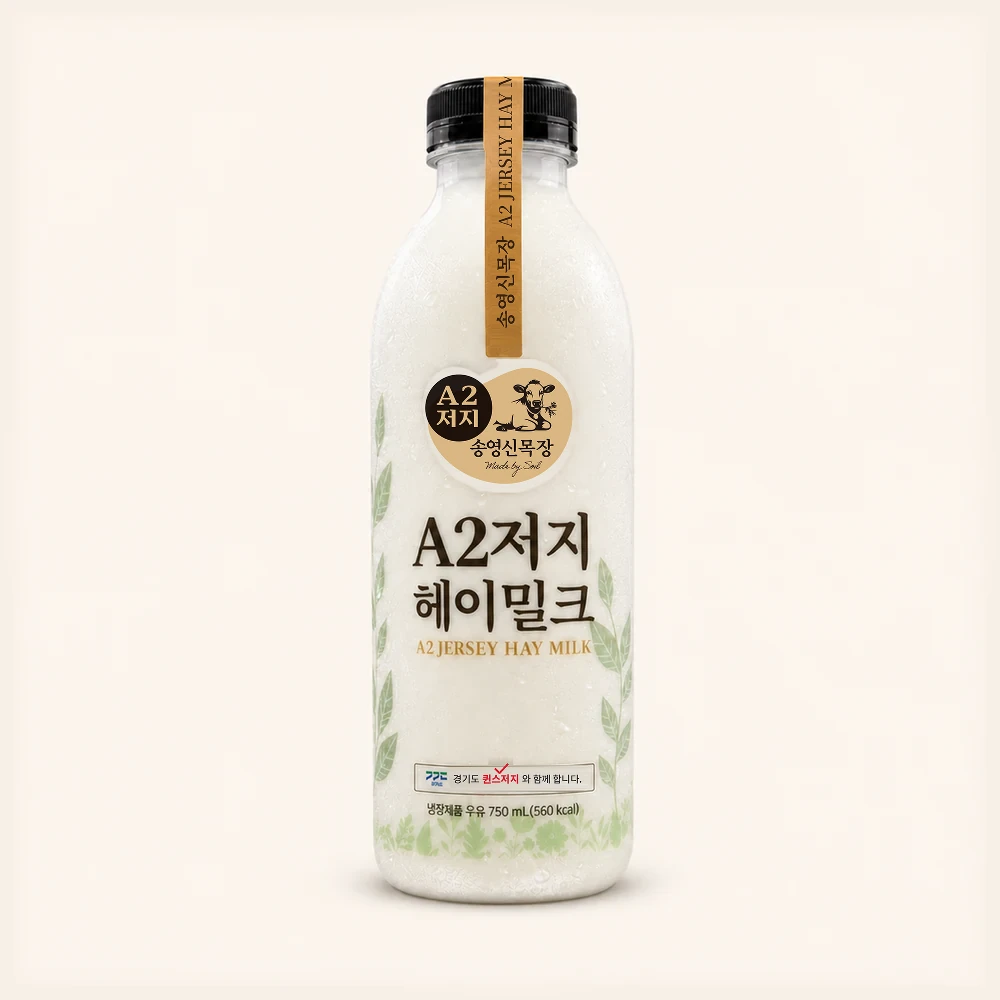
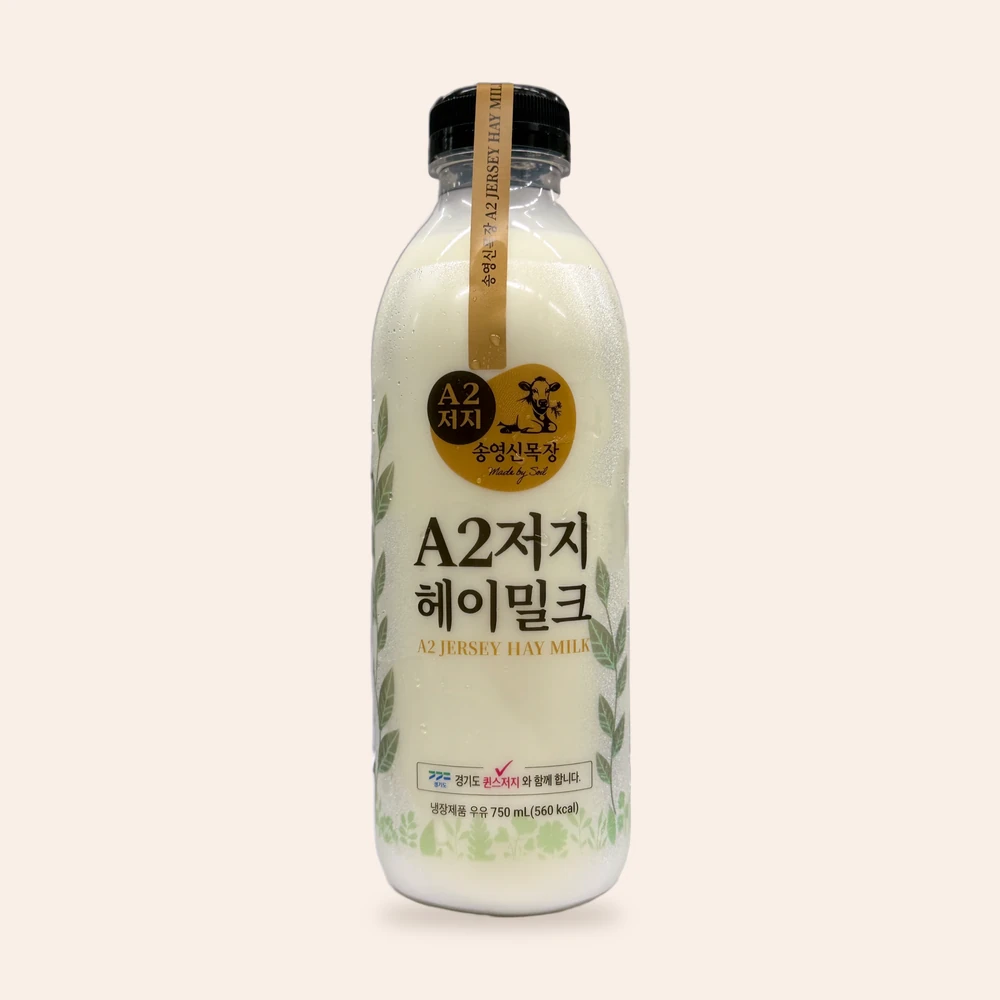
feat(제품 사진): 제품별 병 사진을 실물 사진으로 교체 (#242)
* feat(제품 사진): 병 사진을 전부 실물 사진으로 교체

회장님이 보내 주신 실제 병 사진 넷으로 AI 렌더(글자만 교정한 임시본)를 바꾼다.
라벨이 실물 그대로다 — 송영신목장 · Made by Soil · 경기도 퀸스저지 와 함께 합니다 ·
135/130/360/560 kcal(lib/products.ts 와 일치).

  · 상세 사진 4(*-bottle.webp) · 진열 카드 누끼 4(cut/) · 공유 카드용 PNG 4
  · 홈 단체 사진(hero-row-white.webp): 실물 누끼 다섯을 흰 바탕에 다시 배열
  · 대표 공유 이미지(og-default.jpg): 같은 배열로 교체
  · 원본 4(assets/product-photos/)

누끼: Higgsfield 배경제거가 네 장 모두 실패해 외곽선을 직접 계산했다.
소비기한 도장(2026.10.01 / 10.10)은 지난 날짜라 지웠다. 라벨 인쇄 내용은 그대로다.
파일명 동일 — 코드 변경 없음.

Claude-Session: https://claude.ai/code/session_01F2bgBTKJ7TqpFALYp1gxwG

* feat(제품 사진): Higgsfield 누끼로 다시 만들고, 홈 단체 사진은 그대로 둔다

회장님 지시: 메인 히어로는 두고 제품별 사진만 실물로 바꾼다.

  · 누끼: Higgsfield remove_background 알파 + 원본 픽셀(라벨 불변, 불투명 영역 차이 0)
  · 소비기한 도장 삭제, 전체 동일 색 보정(밝기 소폭·녹색기 완화)
  · hero-row-white.webp · og-default.jpg 는 main 그대로 되돌림

Claude-Session: https://claude.ai/code/session_01F2bgBTKJ7TqpFALYp1gxwG

---------

Changed region(s): [[0.372, 0.062, 0.651, 0.93]]

diff --git a/AGENTS.md b/AGENTS.md
@@ -79,5 +79,13 @@ end $$;
 크게 진열하자 그대로 드러났다. 지어낸 원산지 문구(파주시)는 표시광고 문제이기도 하다.
 
 고칠 때는 AI 로 글자를 다시 그리지 않는다(또 틀린다). 벡터 로고를 얹고 글자는 글꼴로 조판한다.
-이번 교정본은 그렇게 만든 **임시 교정**이다 — 실제 병을 찍은 사진을 받으면 그것으로 바꾼다.
+같은 날 회장님이 실제 병을 찍은 사진 넷을 보내 주셔서, **제품별 사진**(상세 사진·진열 누끼·공유 카드용
+PNG)을 전부 실물 사진으로 바꿨다(원본: `assets/product-photos/`). 앞으로 병 사진은 이 실물 컷에서 만든다.
+
+- 누끼는 Higgsfield `remove_background` 의 알파만 쓰고 색은 원본 픽셀 그대로 둔다(라벨이 한 픽셀도
+  안 바뀐다 — 불투명 영역 차이 0 을 확인했다). 처음 다섯 번은 failed 였고 몇 분 뒤 다시 하니 됐다.
+- 병에 찍힌 소비기한 도장(2026.10.01 / 10.10)은 지웠다 — 지난 날짜가 상품 사진에 보이면 안 된다.
+- 색은 전체에 같은 보정만 건다(밝기 살짝, 조명의 누런 녹색기 완화). 부분 보정·AI 재생성·업스케일 금지.
+- 홈 단체 사진(`hero-row-white.webp`)과 대표 공유 이미지는 회장님 지시로 그대로 뒀다(글자만 교정한 렌더).
+
 `public/detail/*.jpg` 는 쓰이지 않는 옛 상세 이미지이며 같은 종류의 오류가 남아 있으니 되살리지 않는다.
